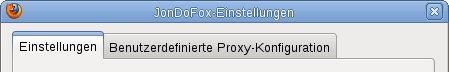
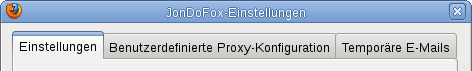
added temp email help

diff --git a/FirefoxByLanguage/deFirefoxPortablePatch/help.html b/FirefoxByLanguage/deFirefoxPortablePatch/help.html
@@ -257,6 +257,19 @@ eventuell vorhandene Unregelm&auml;&szlig;igkeiten hinweist und so besser vor
 <a href="http://de.wikipedia.org/wiki/Man-in-the-middle-Angriff">Man-in-the-middle-Angriffen</a>
 sch&uuml;tzt.</p>
 
+<h4><a name="Temporary E-mail addresses" id="Temporary E-mail addresses">Tempor&auml;re E-Mail-Adressen benutzen</a></h4>
+<p>Mit dem JonDoFox haben Sie die M&ouml;glichkeit, bequem tempor&auml;re E-Mail-Adressen zu benutzen. Klicken Sie dazu mit der rechten Maustaste auf ein Textfeld, in dem die E-Mail-Adresse erscheinen soll und w&auml;hlen Sie aus dem aufklappenden Men&uuml; folgenden Eintrag aus:</p> 
+
+<div align="center">
+<img alt="Tempor&auml;re E-Mail-Adressen -- Kontextmen&uuml;" src="img_jondofox/temp_emails_context_de.png" vspace="8" hspace="0">
+</div>
+
+<p>Danach wird die angeforderte E-Mail-Adresse in das Textfeld eingef&uuml;gt und Ihr Account in einem neuen Tab ge&ouml;ffnet. Wenn Sie selbst bestimmen m&ouml;chten, welchen Anbieter tempor&auml;rer E-Mail-Adressen Sie verwenden wollen, dann k&ouml;nnen Sie die entsprechenden Anpassungen in dem JonDoFox-Einstellungsmen&uuml; vornehmen:</p>
+
+<div align="center">
+<img alt="Tempor&auml;re E-Mail-Adressen -- Einstellungen" src="img_jondofox/temp_emails_de.png" vspace="8" hspace="0">
+</div>
+
 <h4><a name="Searchbar Privacy" id="Searchbar Privacy">Schutz der Suchanfragen vor Beoachtern am Rechner-Arbeitsplatz</a></h4>
 <p>Um die Eingaben in die Suchleiste des Browsers vor ungewollten Beobachtern zu sch&uuml;tzen, entfernt JonDoFox diese nach jeder Eingabe. Au&szlig;erdem wird die Suchhistorie, in der die eingegebenen Begriffe gespeichert werden, jede halbe Stunde gel&ouml;scht. Damit kann es zum einen nicht mehr passieren, dass die letzte Suchanfrage f&uuml;r jeden, der Zugang zur Browsersitzung des Nutzers hat, einsehbar bleibt. Zum anderen wird die M&ouml;glichkeit, dass Eintr&auml;ge in der Suchistorie den Nutzer kompromittieren, minimiert, ohne deren Funktionalit&auml;t ganz aufzugeben.</p>
 
@@ -400,7 +413,7 @@ src="img_jondofox/UnPlug_de.png" vspace="10"></div>
 
 <p>F&#xfc;r Windows gibt es au&#xdf;erdem ein
 hervorragendes Freeware-Programm namens <a
-href="http://atube-catcher.dsnetwb.com">aTube Catcher</a> speziell f&uuml;r den Video Download. Konfiguration des
+href="http://atube-catcher.dsnetwb.com">aTube Catcher</a> speziell f&uuml;r den Video Download. Die Konfiguration des
 Programms f&uuml;r anonyme Downloads ist <a href="https://anonymous-proxy-servers.net/wiki/index.php/Kompatible_Anwendungen#Video_Downloads_mit_aTube_Catcher">im Wiki beschrieben</a>.</p>
 
 <h3><a name="filterAds" id="filterAds">Werbung filtern mit
